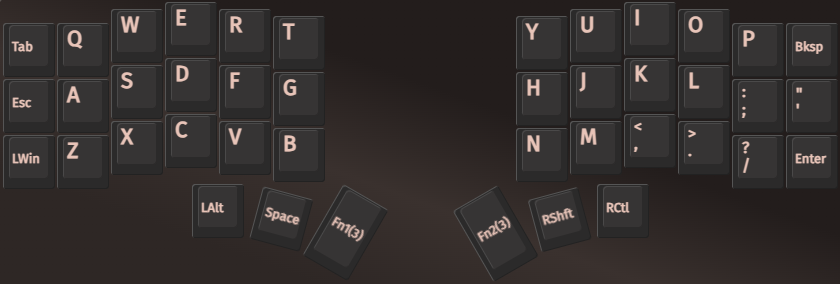
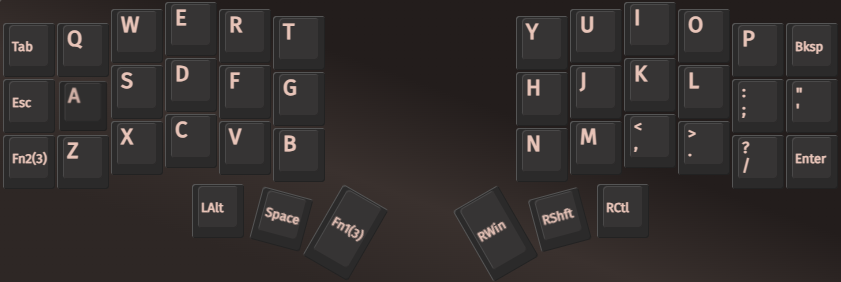
chore: update readme to v2

diff --git a/README.md b/README.md
@@ -12,7 +12,7 @@ The layout is based on the following heuristics:
 
 - Keys should resemble the original qwerty layout to avoid muscle memory conflicts with traditional keyboards.
 - Mnemonics should be used to minimize cognitive load.
-- Modifier keys should reside in the thumb clusters to prevent awkward key combinations.
+- Modifier and layer keys should reside in the thumb clusters to prevent awkward key combinations.
 - The most used keys for each layer should reside in the home row.
 - Four layers should be more than enough.
 
@@ -27,11 +27,13 @@ The first layer mostly resembles qwerty.
 - On the left of `a` we have `Esc` instead of `CAPS`, a remap that many vim users also have on normal keyboards.
 - I have no key for `CAPS`. If necessary, I keep `Shift` pressed while typing letters.
 - Since my workflow requires me to press both `Alt` + `Shift` and `Alt` + `Ctrl`, I put `Alt` on the opposite side of the other two modifiers.
+- The first layer key is positioned in the thumb cluster opposite to `Shift` as layer 1 contains keys that might require shifting.
 
 Shortcomings:
 
 - `Enter` is in an awkward position. However, I did not find it worth it to have `Enter` readily accessible as a thumb key like I did for `Space`. Moreover, having `Enter` as a thumb key would result in significant muscle memory conflicts against traditional keyboards. In the end, I got used to this lower-right pinky position and it currently does not bother me.
 - The `Win` key, i.e. Mac's `Cmd` key, is in an awkward position when it comes to pressing it in combination with `Tab`. While not currently a problem with Windows, I might reconsider its position if I ever use a Mac in the future.
+- Since no more space is left in the thumb clusters, the second layer key is positioned on the bottom left and must reached with the left pinky. This reduces mobility of the other left fingers.
 
 ### Layer 1
 
@@ -54,23 +56,25 @@ Shortcomings:
 
 ![Layer 2](images/layer-2.png)
 
-The third layer is for navigation and function keys. You can access it by pressing the right external thumb key.
+The third layer is for navigation and function keys. You can access it by pressing the bottom left pinky key.
 
 - The arrow keys are positioned to resemble vim arrow keys.
-- `F1` to `F5` are positioned to match numbers `1` to `5`.
-- Since it is unlikely for symbols to be useful here, we do not pass through those.
+- Since it is unlikely for symbols to be useful in this layer, we do not pass through those.
+- `Home` and `End` mirror the behavior of the shadowed `Backspace` and `Enter`.
+- `PgDown` and `PgUp` are positioned to resemble vim's `n` and `p`.
+- Since the left pinky is already being used to access the layer, we position the most used function keys (1 to 4) on the right side of the keyboard for ease of access.
 
 Shortcomings:
 
-- `F6` and up do not resemble the same positioning of the corresponding numbers. Unfortunately, the right side of the home row is reserved for the arrow keys.
-- The position of `End`, `Home`, `PgDown`, and `PgUp` is not straightforward. As of now, the mnemonic to use is proximity to arrow up/down, which is not very vim-like.
+- The position of the function keys is not as straightforward as that of numbers.
+- Function keys from 5 onwards are awkward to type, as the left pinky is already pressing on the bottom-left key to access the layer. This is why they start from the ring finger and we avoid positioning them in the top row.
 
 ### Layer 3
 
-The fourth layer is for media control. You can access it by pressing both external thumb keys.
+The fourth layer is for media control. You can access it by pressing both layer keys.
 
 ![Layer 3](images/layer-3.png)
 
 - `Vol-` and `Vol+` are positioned to resemble vim arrow keys.
 - `Next` and `Prev` are positioned to resemble vim's `n` and `p`.
-- Other keys are positioned to mimic the key they shadow: `Play` for `Enter`, `Rewind` for `Backspace`, `FastForward` for `Tab`, `Mute` for `Escape`.
+- `Rewind` and `Play` mirror the behavior of the shadowed `Backspace` and `Enter`.
